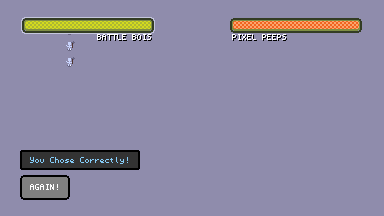
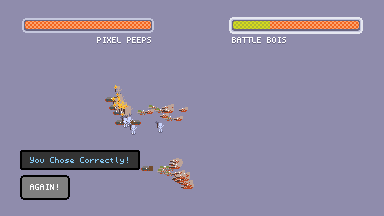
Further improving health bars

diff --git a/pixel-wars/src/lib.rs b/pixel-wars/src/lib.rs
@@ -842,9 +842,9 @@ fn draw_team_health_bar(
     let y_bar = y;
     let w_bar = 128.;
     let h_bar = 10;
-    let inner_border_color: u32 = 0x7f8e44ff;
-    let outer_border_color: u32 = 0x333c24ff;
-    let selected_border_color: u32 = 0xc5c7ddff;
+    let inner_border_color: u32 = 0x696682ff;
+    let outer_border_color: u32 = 0xc5c7ddff;
+    let selected_border_color: u32 = 0xe6e7f0ff;
     let mut health_width = (current_health / total_base_health * w_bar) as i32;
     health_width = health_width.max(0);
 
@@ -922,7 +922,7 @@ fn draw_team_health_bar(
             y = y_bar - 3.,
             color = 0,
             border_color = selected_border_color,
-            border_width = 1,
+            border_width = 2,
             border_radius = 5
         );
     }
